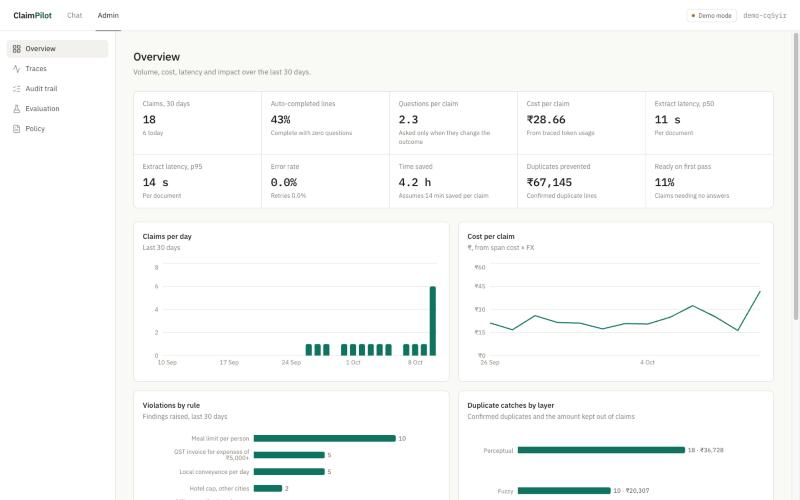
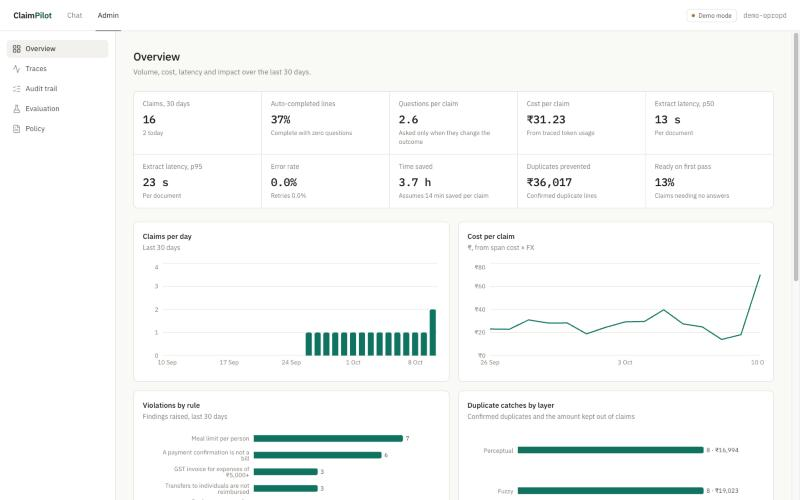
QA pass 2: report, demo script click path and numbers, refreshed screenshots

diff --git a/docs/DEMO_SCRIPT.md b/docs/DEMO_SCRIPT.md
@@ -7,6 +7,7 @@ rm -f data/app.db*
 LLM_PROVIDER=replay SEED_DEMO=1 REPLAY_DELAY_S=1.5 make serve
 ```
 
+- If port 8000 is taken, add `DATABASE_URL=sqlite:////tmp/claimpilot_demo.db` and run `uv run uvicorn app.main:app --app-dir backend --port 8020` with the same env vars after `npm --prefix frontend run build`.
 - Open a fresh private/incognito window at http://localhost:8000 (a rehearsal in the same browser makes the receipts look like duplicates; clear site data or use a new private window).
 - Browser at 1440px wide, zoom 100%, hide bookmarks bar. Record with QuickTime (⌘⇧5 → Record Selected Portion) and an external mic if possible.
 - Do one full rehearsal, then reset with the two commands above.
@@ -16,22 +17,22 @@ LLM_PROVIDER=replay SEED_DEMO=1 REPLAY_DELAY_S=1.5 make serve
 | Time | On screen | Say (roughly) |
 |---|---|---|
 | 0:00–0:25 | Title / chat home | "Employees lose 15–25 minutes per claim collecting bills, typing details and guessing policy. Finance then rejects claims for missing GST invoices or duplicates. ClaimPilot turns a pile of receipts into a submission-ready claim in about a minute." |
-| 0:25–1:05 | Try sample receipts → select all 13 → Add to claim; per-document progress | "This is a two-day Mumbai client trip: rides, meals, a hotel folio with its UPI payment screenshot, a handwritten fuel bill, a stationery invoice, and a UPI transfer to a colleague for a shared cab. Each document is read by a vision model into structured fields with a confidence score and the exact text it read." |
-| 1:05–1:35 | Click a field value (Total) → popover; point at grey "assumed" chips | "Every field carries provenance. Low-confidence fields only become questions if they would change the outcome; otherwise they're marked assumed. That's how we ask only necessary questions." |
-| 1:35–2:20 | Claim panel: UPI proof row, GST block, Rohan Desai transfer ("Not reimbursable: ₹350 was sent to a person…", chip "Paid to: Person · Rohan Desai"), meal cap; click "Why?" on the transfer, then on the Chaiwala meal | "The LLM only perceives; deterministic code decides. The hotel's UPI screenshot is linked to its bill as proof of payment, not counted twice. A payment screenshot on its own is not a bill, and this one is a transfer to a person, so it is blocked under section 6.3; masked UPI IDs and phone numbers never get stored. The stationery invoice over ₹5,000 is blocked: its GSTIN fails the checksum. The meal is capped at ₹750 per person, and 'Why?' shows the rule and the exact policy sentence it came from." |
-| 2:20–3:00 | Answer the 3 questions (fuel date 06-10-2026; "Same expense, drop it"; "Client dinner approved in advance by the department head.") → Send; then the 4th, the fuel trip note ("Drove to the Thane client site and back on 6 Oct for the workshop.") → Send | "Four questions for thirteen documents: the smudged date, a re-photographed ride receipt caught as a duplicate, a justification for the meal cap, and the trip note the policy needs for every fuel bill. Answers are re-checked instantly, with no extra AI call." |
-| 3:00–3:15 | "₹16,204.00 reimbursable of ₹25,460.40" → Submit → finance reference → Approved | "Ready to submit. It goes to the finance system (mocked here behind the same interface a real ERP connector would use) with a full audit trail." |
+| 0:25–1:05 | Try sample receipts → all 13 are pre-selected → Add 13 to claim; per-document progress ("Reading 13 documents", about 20 s) | "This is a two-day Mumbai client trip: rides, meals, a hotel folio with its UPI payment screenshot, a handwritten fuel bill, a stationery invoice, and a UPI transfer to a colleague for a shared cab. Each document is read by a vision model into structured fields with a confidence score and the exact text it read." |
+| 1:05–1:35 | Click Total on the Chaiwala meal → popover ("GRAND TOTAL Rs. 3,854.00", confidence bar); point at the fuel line's "Date: Not found" | "Every field carries provenance: the exact text it was read from and how sure the model was. A low-confidence field only becomes a question if a plausible misreading would change the outcome (otherwise it is marked assumed, shown in grey); here only the smudged fuel date matters. That's how we ask only necessary questions." |
+| 1:35–2:20 | Claim panel: UPI proof row under Harbourview (#5), GST block on Fort Stationery (#10), Rohan Desai transfer (#11: one red line "Not reimbursable: ₹350 was sent to a person…", chip "Paid to: Person · Rohan Desai"; tap the chip to show the masked UPI ID), meal cap on Chaiwala (#4); click "Why?" at the end of the transfer's red line (§6.3 quote, "Also noted" lists the bill and purpose checks it no longer needs), then "Why?" on the Chaiwala meal (§4.2 quote, "Reimbursed up to the limit: ₹3,000.00, ₹854.00 over.") | "The LLM only perceives; deterministic code decides. The hotel's UPI screenshot is linked to its bill as proof of payment, not counted twice. A payment screenshot on its own is not a bill, and this one is a transfer to a person, so it is blocked under section 6.3, and a blocked line asks nothing more of you. Personal spend such as a salon bill is blocked the same way. UPI IDs and phone numbers are masked before anything is stored. The stationery invoice over ₹5,000 is blocked: its GSTIN fails the checksum. The meal is capped at ₹750 per person, and 'Why?' shows the rule and the exact policy sentence it came from." |
+| 2:20–3:00 | Round 1, three questions: fuel date 06/10/2026 in the date picker; "Same expense, drop it"; type "Client dinner approved in advance by the department head." → Send answers (reimbursable becomes ₹16,204.00). Round 2, "Thanks. One more question…": the fuel trip note, type "Drove to the Thane client site and back on 6 Oct for the workshop." → Send answers | "Four questions for thirteen documents: the smudged date, a re-photographed ride receipt caught as a duplicate, a justification for the meal cap, and the trip note the policy needs for every fuel bill. Answers are re-checked instantly, with no extra AI call." |
+| 3:00–3:15 | "All lines are complete. ₹16,204.00 reimbursable of ₹25,460.40 claimed." → Submit claim → "Submitted to Finance. Reference FIN-xxxx" → about 20 s later "Finance approved FIN-xxxx for ₹16,204.00." | "Ready to submit. It goes to the finance system (mocked here behind the same interface a real ERP connector would use) with a full audit trail." |
 | 3:15–3:45 | Admin → Overview | "For the finance and admin team: auto-completion rate, questions per claim, cost per claim in rupees, latency, duplicates prevented and hours saved, all computed from stored traces." |
 | 3:45–4:05 | Traces → open a trace; Audit trail | "Every claim is traced step by step: ingest, extract, validate, dedupe, rules, plan, with model, prompt version, tokens and cost. The audit trail shows every flag with its rule and source text." |
-| 4:05–4:35 | Evaluation → Smoke set → Run eval; comparison table, reliability chart | "We built a synthetic evaluation set of 68 Indian receipts with ground truth: blurred, rotated, handwritten, UPI screenshots, planted duplicates and decoys, plus payments with no bill, a person-to-person transfer, a salon bill, someone else's recharge and a split purchase. With prompt v3: field accuracy 100%, duplicate precision and recall 100%, policy accuracy 100%, calibration measured, and the v1 and v2 runs alongside for comparison. A regression gate runs in CI." |
+| 4:05–4:35 | Evaluation → Smoke set → Run eval (13 receipts, about 20 s, "Gate passed"); pick the full v3 run in the Run menu; comparison table, reliability chart | "We built a synthetic evaluation set of 68 Indian receipts with ground truth: blurred, rotated, handwritten, UPI screenshots, planted duplicates and decoys, plus payments with no bill, a person-to-person transfer, a salon bill, someone else's recharge and a split purchase. With prompt v3 on 68 receipts: field accuracy 100%, duplicate precision and recall 100%, policy accuracy 100%, calibration measured, and the v1 and v2 runs on the earlier 61-receipt set alongside (the table shows each run's receipt count). A regression gate runs in CI." |
 | 4:35–4:55 | Policy → hover a rule → highlighted sentence | "The policy is written in plain English. The AI compiles it once into rules with verified citations, and a deterministic engine runs them. Change the policy, not the code." |
 | 4:55–5:10 | Back to chat / GitHub repo | "Model-agnostic provider layer, record-and-replay for keyless deployment, 310 tests at 99% coverage. ClaimPilot: from a pile of receipts to ready-to-submit." |
 
 ## Expected numbers (replay, DEMO_TODAY 2026-10-10)
 
-- After upload: 13 documents, 12 lines (the hotel UPI screenshot becomes the folio's proof row). Total ₹25,460.40, reimbursable ₹16,846.00 before answers.
-- Blocked (₹0): Fort Stationery Mart ₹7,410.40 (GST_INVOICE_ABOVE_5000, GSTIN checksum fails) and the ₹350 transfer to Rohan Desai (P2P_TRANSFER_NOT_REIMBURSABLE; it also shows BILL_REQUIRED and OTHER_NEEDS_BUSINESS_PURPOSE).
-- Round 1 questions: Om Sai fuel date, the airport ride duplicate, the Chaiwala meal cap (₹963.50/person, reimbursed ₹3,000 of ₹3,854). After answering: ₹16,204.00.
+- After upload: 13 documents, 12 lines (the hotel UPI screenshot becomes the folio's proof row). Header "12 lines · 2 left out · 3 need attention". Chat: "13 documents read. 1 needs a detail, 1 looks like a duplicate, 2 are blocked by policy, 1 needs a justification. The ₹5,824 UPI payment is attached to the Harbourview Residency invoice as proof, not counted twice." Total ₹25,460.40, reimbursable ₹16,846.00 before answers.
+- Blocked (₹0): Fort Stationery Mart ₹7,410.40 (GST_INVOICE_ABOVE_5000, with the VAL_GSTIN_INVALID note under it) and the ₹350 transfer to Rohan Desai (P2P_TRANSFER_NOT_REIMBURSABLE only on the card; BILL_REQUIRED and OTHER_NEEDS_BUSINESS_PURPOSE appear under "Also noted" in its Why drawer and in the audit trail). Blocked lines ask no questions; "Leave out of claim" is the only action.
+- Round 1 questions: Om Sai fuel date, the airport ride duplicate, the Chaiwala meal cap (₹963.50/person, reimbursed ₹3,000 of ₹3,854). After answering: ₹16,204.00, header "12 lines · 3 left out · 1 needs attention".
 - Round 2 question: the Om Sai fuel trip note (FUEL_TRIP_NOTE). After answering: Ready to submit, ₹16,204.00 of ₹25,460.40.
 - Seeded admin data: eval runs for prompts v1 and v2 (61-receipt snapshots) and v3 (68 receipts).
 

diff --git a/docs/QA_REPORT.md b/docs/QA_REPORT.md
@@ -102,3 +102,55 @@ Status: PASS = worked as expected first time; FIXED = failed, fixed and re-verif
 - Replay runs are fast even with `REPLAY_DELAY_S`; the waterfall shows replay timings, with the recorded latency in each llm span (already labelled on the page).
 - Overview has no latency histogram chart although the API returns one (spec item, not a regression).
 - A failed (409) upload leaves an empty claim behind; harmless.
+
+# Pass 2: eligibility rules and the 13-receipt story
+
+Date: 11 Oct 2026. Build: `main` after `5719c29` (Jio Platforms rename, prompt v3, eligibility rules, PII masking, 13-receipt gallery). Run: `LLM_PROVIDER=replay SEED_DEMO=1 REPLAY_DELAY_S=1.5` on a fresh SQLite DB (port 8020 with a scratch `DATABASE_URL`, because :8000 was in use), driven in the built-in browser at 1440x900 and 375x812 with site data cleared before each run. `uv run pytest -q` (310 tests, 98.9% coverage), `make lint`, `npm run build` and the 27 frontend tests stay green.
+
+**Totals: 37 cases. 28 PASS, 7 FIXED, 2 NOTE, 0 open failures.**
+
+| Area | Case | Expected | Actual | Status | Fix commit |
+|---|---|---|---|---|---|
+| Chat | Gallery | 13 receipts, all pre-selected | "Add 13 to claim"; intro copy did not mention the transfer | FIXED | 78aac46 |
+| Chat | Progress | Visible per document | "Reading 13 documents", about 20 s; a single file read "Read 1 documents" | FIXED | 78aac46 ("Read 1 document") |
+| Chat | Summary | Counts and UPI note | "13 documents read. 1 needs a detail, 1 looks like a duplicate, 2 are blocked by policy, 1 needs a justification. The ₹5,824 UPI payment is attached …" | PASS | |
+| Claim | Totals before answers | ₹25,460.40 / ₹16,846.00 | Same; header "12 lines · 2 left out · 3 need attention" | PASS | |
+| Claim | UPI proof row | Under Harbourview, not counted | "Proof of payment ₹5,824.00 · UPI · ref 643616165652 · 6 Oct" | PASS | |
+| Claim | Stationery GST block | Excluded, invalid GSTIN | "Not reimbursable: … GSTIN missing or fails checksum" plus the VAL_GSTIN_INVALID note | PASS | |
+| Claim | Rohan Desai transfer | One clear reason | Red "Not reimbursable" line plus three bullet findings (P2P repeated, "Attach the bill", "business purpose") | FIXED | 39a4de9 (card shows one reason with Why?; the other checks sit under "Also noted" in the drawer) |
+| Claim | Blocked line actions | Optional remove only | No "Leave out of claim" on blocked lines | FIXED | 39a4de9 |
+| Claim | Duplicate ride | Flagged, question | Flagged with "5 Oct 2026" | PASS | |
+| Why | Meal cap | Rule, Jio §4.2 quote, evidence | "Meals are reimbursed up to INR 750 per person per meal." §4.2; "Reimbursed up to the limit: ₹3,000.00, ₹854.00 over." | PASS | |
+| Why | Receipt number | Same as the card | Drawer counted the nested UPI proof: transfer showed "#12", card "11" | FIXED | 39a4de9 |
+| Questions | Round 1 | Date, duplicate, meal justification | Answered (06/10/2026, "Same expense, drop it", justification): ₹16,204.00, "3 left out · 1 needs attention" | PASS | |
+| Questions | Round 2 | Fuel trip note, then ready | "Thanks. One more question…"; answer stored as "Purpose:" on the card; "All lines are complete. ₹16,204.00 reimbursable of ₹25,460.40 claimed." | PASS | |
+| Submit | Finance | Reference, then approved | "Submitted to Finance. Reference FIN-3672 …", ~20 s later "Finance approved FIN-3672 for ₹16,204.00." | PASS | |
+| Rules | Blocked line asks nothing | No questions on a blocked line | Planner still ran low-confidence (VOI) questions on blocked lines, e.g. category or payee on a salon payment | FIXED | 1908804 (+ test in `test_eligibility.py`) |
+| Rules | Standalone UPI screenshot | "Attach the bill …", linked when the bill arrives | Hotel UPI alone: "Attach the bill for this ₹5,824 payment to Harbourview Residency …" (plus city, category); adding the folio linked it, questions closed, "Ready to submit" | PASS | |
+| Rules | Trip note re-check | Fuel line completes | Completes after the answer, no model call | PASS | |
+| Rules | Business-purpose note | Re-check clears OTHER_NEEDS_BUSINESS_PURPOSE | No unblocked "other" line in the gallery; covered by `test_eligibility.py::test_bill_and_trip_note_answers` and `test_other_needs_purpose_and_payer_check` | NOTE | |
+| Rules | Not-reimbursable copy | Clear and calm | "₹350 was sent to a person (Rohan Desai), not paid to a business; person-to-person transfers are not reimbursed." | PASS | |
+| PII | Payee / payer display | Masked | "Paid to: Person · Rohan Desai"; popover snippet `r****.*****-2@okpaynow`; payer "K. Mehta (xx••••)" | PASS | |
+| Copy | "Acme" leftovers | None | None in UI, docs, seed data, policy or gallery images | PASS | |
+| Admin | Overview | Renders with new rules | 16 claims, 16 rules in "Violations by rule" incl. BILL_REQUIRED, P2P, PERSONAL, SPLIT | PASS | |
+| Admin | Answered justifications in stats/audit | Trip note visible as resolved | FUEL_TRIP_NOTE / OTHER_NEEDS_BUSINESS_PURPOSE stop firing once `business_purpose` is set, so they vanish from Overview counts and the audit trail (the purpose stays on the line) | NOTE | |
+| Admin | Traces | Waterfall, span attributes | Upload trace 91 spans, attributes below | PASS | |
+| Admin | Audit | New rules with citations | 71 findings; §3.1, §6.3, §2.1 quotes | PASS | |
+| Admin | Eval history | v1/v2/v3 sensible | v3 (68 receipts) showed "+0.003 vs previous" against v2 on the 61-receipt snapshot | FIXED | 78aac46 (deltas only within one fixture set; "Receipts" column in the comparison table) |
+| Admin | Smoke run | Runs, gate | 13 receipts, ~20 s, "Gate passed" | PASS | |
+| Admin | Policy | Jio policy, disclaimer, new rules verified | First line is the disclaimer; 20 rules, every `citation_verified` true; "19 of 83 sentences produced a rule"; hover highlights the sentence | PASS | |
+| Regression | Refresh mid-claim | Resumes | "Picked up 'Expenses 10 Oct 2026' where you left it." | PASS | |
+| Regression | Second visitor | No cross-visitor duplicates | Fresh browser id; hotel folio and UPI not flagged | PASS | |
+| Regression | Non-recorded upload | 409 message | "This file is not in the recorded demo set …" | PASS | |
+| Regression | Wrong type / over 10 MB | Reason shown | "Added 1 file · 2 skipped (images or PDFs up to 10 MB, 10 at a time)" | PASS | |
+| Regression | Field popover | Snippet, confidence | Shown, inside the mobile sheet too | PASS | |
+| Regression | Mobile bar and sheet | Totals, sheet opens | "12 lines · Reimbursable ₹16,846.00 · Needs info · View claim"; sheet scrolls | PASS | |
+| Regression | 375 px layout | No horizontal scroll | scrollWidth 375 | PASS | |
+| Regression | Drawer close | Escape closes | Works | PASS | |
+| Regression | Keyboard in justification box | Enter | Enter adds a newline in the textarea (Send answers button submits) | PASS | |
+
+## Not changed (pass 2)
+
+- The run picker, comparison table and llm span attributes show the recorded model name; CLAUDE.md keeps docs provider-neutral, the UI was left as is.
+- Times use the UTC calendar day pinned to `DEMO_TODAY`; after 18:30 UTC (midnight IST) the claim is titled "10 Oct" while times read "11 Oct". Record in the IST daytime.
+- Answered trip notes and business purposes are not kept as resolved findings (see the NOTE above); changing that means changing the rule conditions and the eval ground truth.

diff --git a/docs/ARCHITECTURE.md b/docs/ARCHITECTURE.md
@@ -806,7 +806,7 @@ Deviations and clarifications made while building; the design above stays the re
   - New facts: `has_bill` (false for an unlinked payment screenshot; a linked one is never evaluated), `bill`, `payee_type`, `payer_name`, `payer_matches_employee` (token/initial fuzzy match of the payer against `EMPLOYEE_NAME` and `COMPANY_NAME`; None when either is missing), `business_purpose` (a line field set by the user's answer), `vendor_name` (the payee stands in on a payment screenshot). `vendor_name` is required for every category.
   - New cited rules: `BILL_REQUIRED` (3.1, require_field `bill`, WARN), `P2P_TRANSFER_NOT_REIMBURSABLE` and `PERSONAL_EXPENSE_NOT_REIMBURSABLE` (6.3, BLOCK), `OTHER_NEEDS_BUSINESS_PURPOSE` (2.1) and `FUEL_TRIP_NOTE` (4.4) as require_justification while `business_purpose` is empty, `MOBILE_BILL_IN_EMPLOYEE_NAME` (6.2), `PAYER_NOT_EMPLOYEE` (2.1, not on phone bills), and `SPLIT_BILL_SAME_VENDOR_DAY` (3.3) on a new `vendor_day` scope: several bills from one vendor on one day, each under ₹5,000 but together at or above it, flag every member with the group total as evidence (within one claim only).
   - Engine: line rules run first; day/vendor/claim aggregates skip blocked lines, so a blocked transfer never eats into a daily cap.
-  - Planner: a WARN `require_field` finding becomes a `justify_flag` question ("Attach the bill for this ₹X payment to Y… or explain why there is none"; VOI 0.7); uploading the bill links the screenshot through the existing UPI-link logic and the question disappears. A justification answering a rule whose condition reads `business_purpose` is stored on the line, so the rule stops firing. Blocked lines get no required-field questions. `payee_type` is askable (choice).
+  - Planner: a WARN `require_field` finding becomes a `justify_flag` question ("Attach the bill for this ₹X payment to Y… or explain why there is none"; VOI 0.7); uploading the bill links the screenshot through the existing UPI-link logic and the question disappears. A justification answering a rule whose condition reads `business_purpose` is stored on the line, so the rule stops firing. Blocked lines get no questions at all (required-field, low-confidence or finding); the card shows one reason and the Why drawer lists the other open checks under "Also noted". `payee_type` is askable (choice).
   - **PII redaction** (`pipeline/redact.py`, pure, idempotent): masks mobile numbers (last 2 digits kept), UPI VPAs (first/last character and separators kept; merchant collection ids are not personal and stay), card numbers and last-4 patterns, emails and keyword-anchored account numbers. `LLMClient.extract` applies it to the provider output before parsing and before recording, so stored fields, `raw_text`, snippets and replay files are masked; names, amounts, GSTINs and UPI references are kept. Uploaded images are not redacted.
   - **Replay provenance**: `backend/scripts/check_replay_provenance.py` (in `make lint` and CI) fails when a recording's image sha256 is not a committed fixture.
   - **Eval**: 68 receipts in 14 claims; new planted scenarios: standalone UPI screenshots without a bill, a P2P transfer, a salon payment, a recharge paid by someone else, a split stationery purchase and a bill made out to someone else; every fuel bill now expects `FUEL_TRIP_NOTE`. The claimant (`employee_name` in the manifest, Kavya Mehta) is printed as guest, rider and payer; the runner uses it whatever `.env` says. Renaming the company and the payer changes most fixture bytes, so the v1/v2 runs on the old 61-receipt set are kept as snapshots in `data/eval/history/` and the seed shows them when their recordings no longer match. Live v3 recordings (13 gallery + 60 unique eval images): field accuracy 1.000, duplicate P/R 1.000/1.000 (the old hotel semantic false positive no longer fires), violation accuracy 1.000 over the 20 rules, ECE 0.054, 2.29 questions per claim, $0.063 per receipt; the v2 baseline on the old set was 1.000 / 0.933 / 1.000 / 1.000, ECE 0.051, 2.0 questions per claim. Synthetic look-alikes of the four live-test screenshots, run live without recording: CNG asks for the bill and a trip note, the salon and the transfer are blocked, the recharge asks for the bill.
